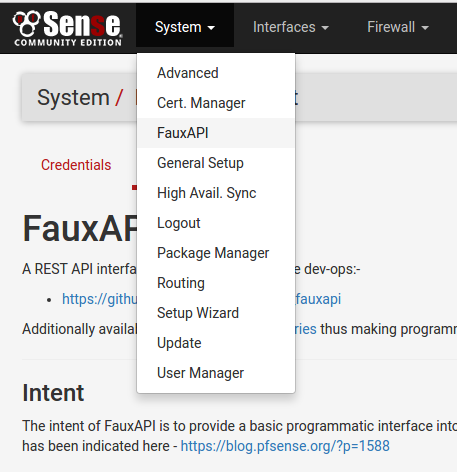
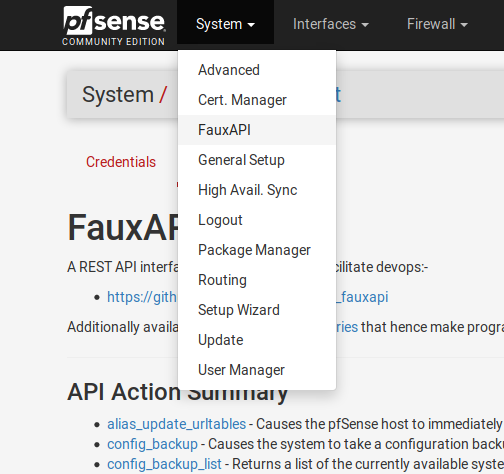
Update the release packages README for pfSense 2.3.5 and add new screenshots

Changed region(s): [[0.0, 0.0, 1.0, 1.0], [0.0919, 0.3263, 0.3063, 0.3856], [0.2757, 0.3856, 0.3063, 0.4153]]

diff --git a/package/README.md b/package/README.md
@@ -5,7 +5,7 @@ install manually as shown
 
 Simply download the latest `pfSense-pkg-FauxAPI` package file directly onto 
 your pfSense system and perform a manual pkg install as shown in the
-installation example below.  It take just 2x commands to install and just 1x
+installation example below.  It takes just 2x commands to install and just 1x
 command to de-install if you need to.
 
 ## Current Version
@@ -14,33 +14,47 @@ command to de-install if you need to.
 
 ## Installation Example
 ```
-2.3.4-RELEASE][root@pfsense]/root: 
-[2.3.4-RELEASE][root@pfsense]/root: curl -s -O https://raw.githubusercontent.com/ndejong/pfsense_fauxapi/master/package/pfSense-pkg-FauxAPI-1.1_2.txz
-[2.3.4-RELEASE][root@pfsense]/root: pkg install pfSense-pkg-FauxAPI-1.1_2.txz
+[2.3.5-RELEASE][root@pfsense]/root: set fauxapi_baseurl='https://raw.githubusercontent.com/ndejong/pfsense_fauxapi/master/package'
+[2.3.5-RELEASE][root@pfsense]/root: set fauxapi_latest=`curl --silent $fauxapi_baseurl/LATEST`
+[2.3.5-RELEASE][root@pfsense]/root: fetch $fauxapi_baseurl/$fauxapi_latest
+pfSense-pkg-FauxAPI-1.2_2.txz                 100% of   33 kB  254 kBps 00m00s
+[2.3.5-RELEASE][root@pfsense]/root: pkg install $fauxapi_latest
+pkg: Warning: Major OS version upgrade detected.  Running "pkg-static install -f pkg" recommended
 Updating pfSense-core repository catalogue...
 pfSense-core repository is up to date.
 Updating pfSense repository catalogue...
 pfSense repository is up to date.
 All repositories are up to date.
-Checking integrity... done (0 conflicting)
-The following 1 package(s) will be affected (of 0 checked):
+The following 2 package(s) will be affected (of 0 checked):
 
 New packages to be INSTALLED:
-	pfSense-pkg-FauxAPI: 1.1_2 [unknown-repository]
+	pfSense-pkg-FauxAPI: 1.2_2 [unknown-repository]
+
+Installed packages to be REINSTALLED:
+	pkg-1.10.1_1 [pfSense] (ABI changed: 'freebsd:10:x86:64' -> 'freebsd:11:x86:64')
 
 Number of packages to be installed: 1
+Number of packages to be reinstalled: 1
+
+The process will require 1 MiB more space.
+3 MiB to be downloaded.
 
 Proceed with this action? [y/N]: y
-[1/1] Installing pfSense-pkg-FauxAPI-1.1_2...
-Extracting pfSense-pkg-FauxAPI-1.1_2: 100%
+[1/2] Fetching pkg-1.10.1_1.txz: 100%    3 MiB  85.1kB/s    00:35    
+Checking integrity... done (0 conflicting)
+[2/2] Reinstalling pkg-1.10.1_1...
+Extracting pkg-1.10.1_1: 100%
+You may need to manually remove /usr/local/etc/pkg.conf if it is no longer needed.
+[1/2] Installing pfSense-pkg-FauxAPI-1.2_2...
+[1/2] Extracting pfSense-pkg-FauxAPI-1.2_2: 100%
 Saving updated package information...
-overwrite!
+done.
 Loading package configuration... done.
 Configuring package components...
 Custom commands...
 Menu items... done.
 Writing configuration... done.
-[2.3.4-RELEASE][root@pfsense]/root: 
+[2.3.5-RELEASE][root@pfsense]/root:
 ```
 
 ## Uninstallation Example
@@ -65,5 +79,8 @@ Configuration... done.
 [2.3.4-RELEASE][root@pfsense]/root: 
 ```
 
-## FauxAPI - Menu
+## FauxAPI - System Menu
 ![alt text](README-menu-screenshot-01.png "menu-screenshot")
+
+## FauxAPI - Package Manager
+![alt text](README-menu-screenshot-02.png "packages-screenshot")
